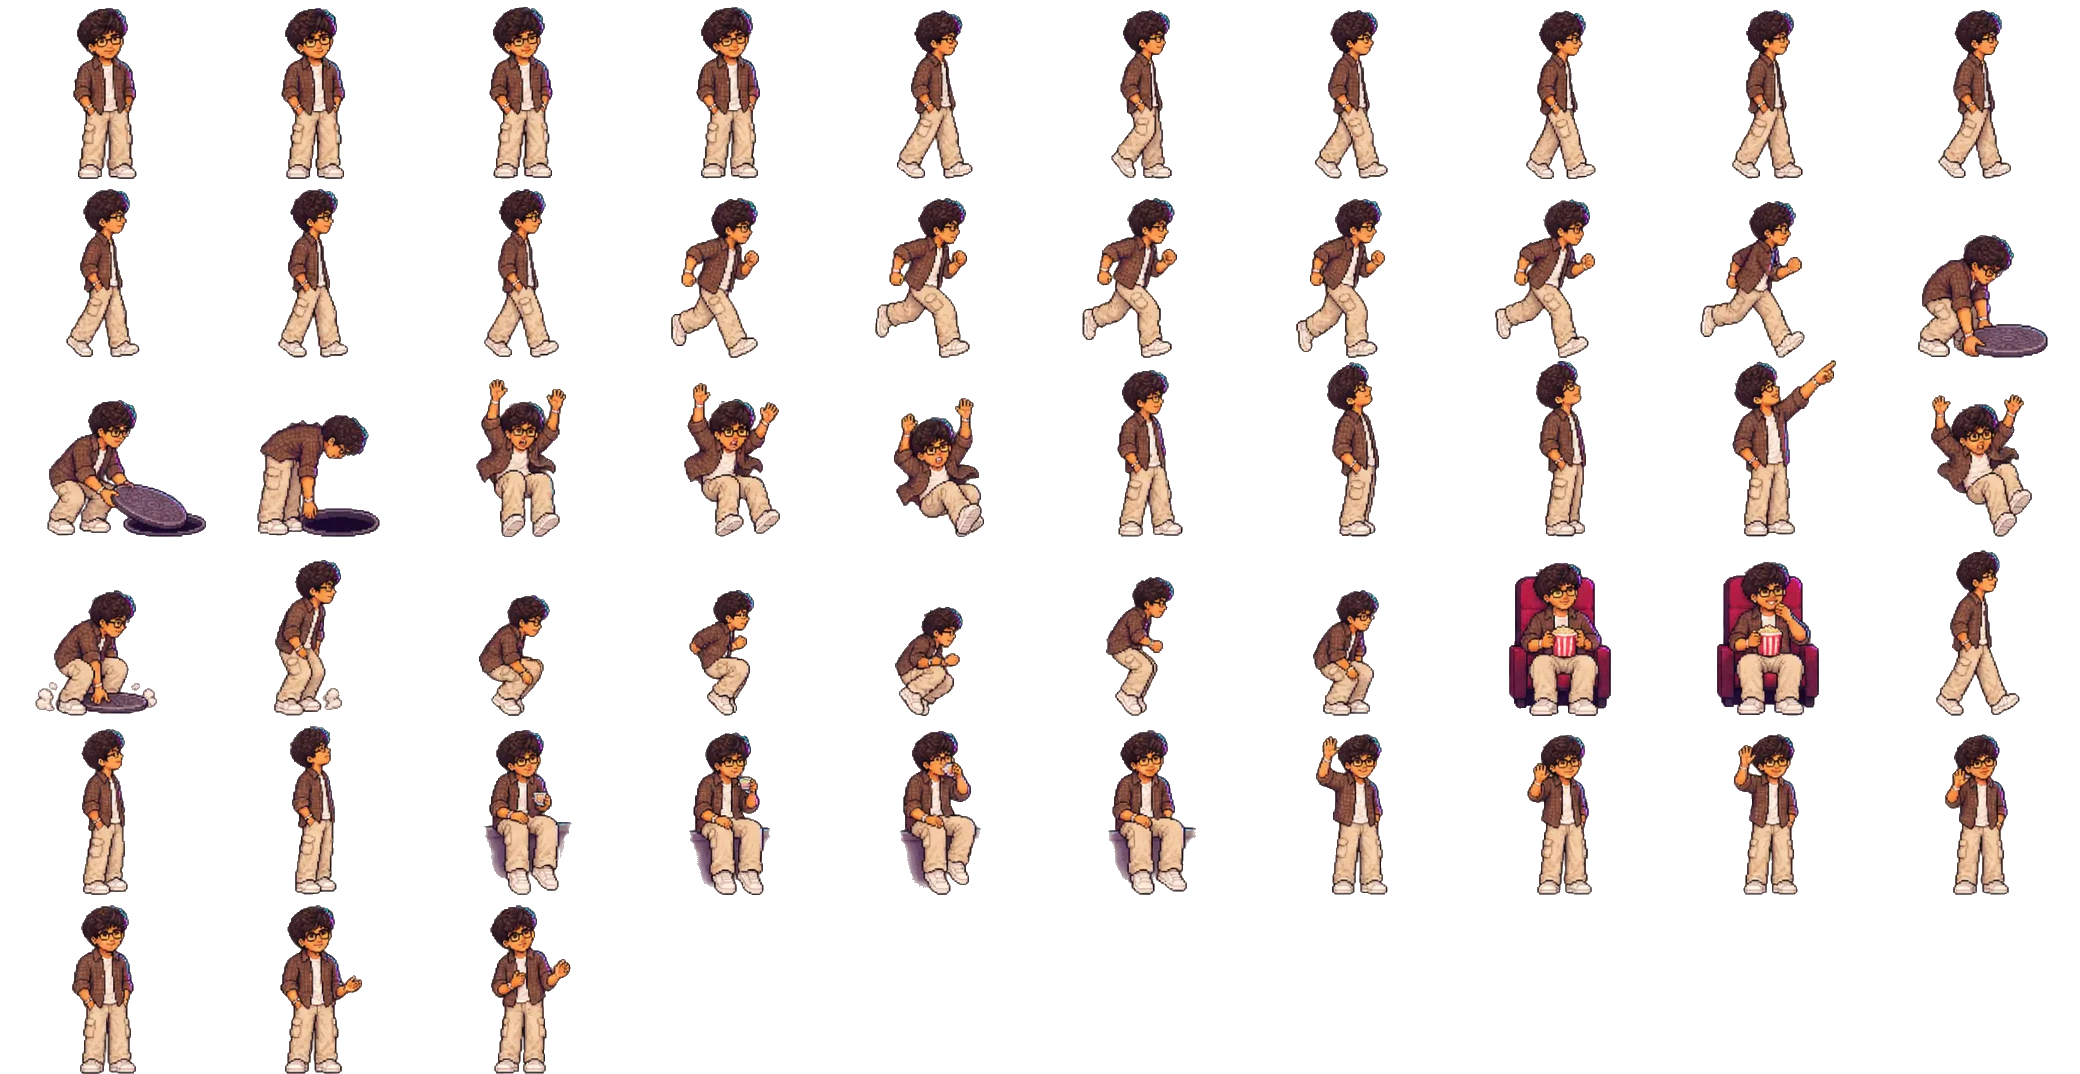
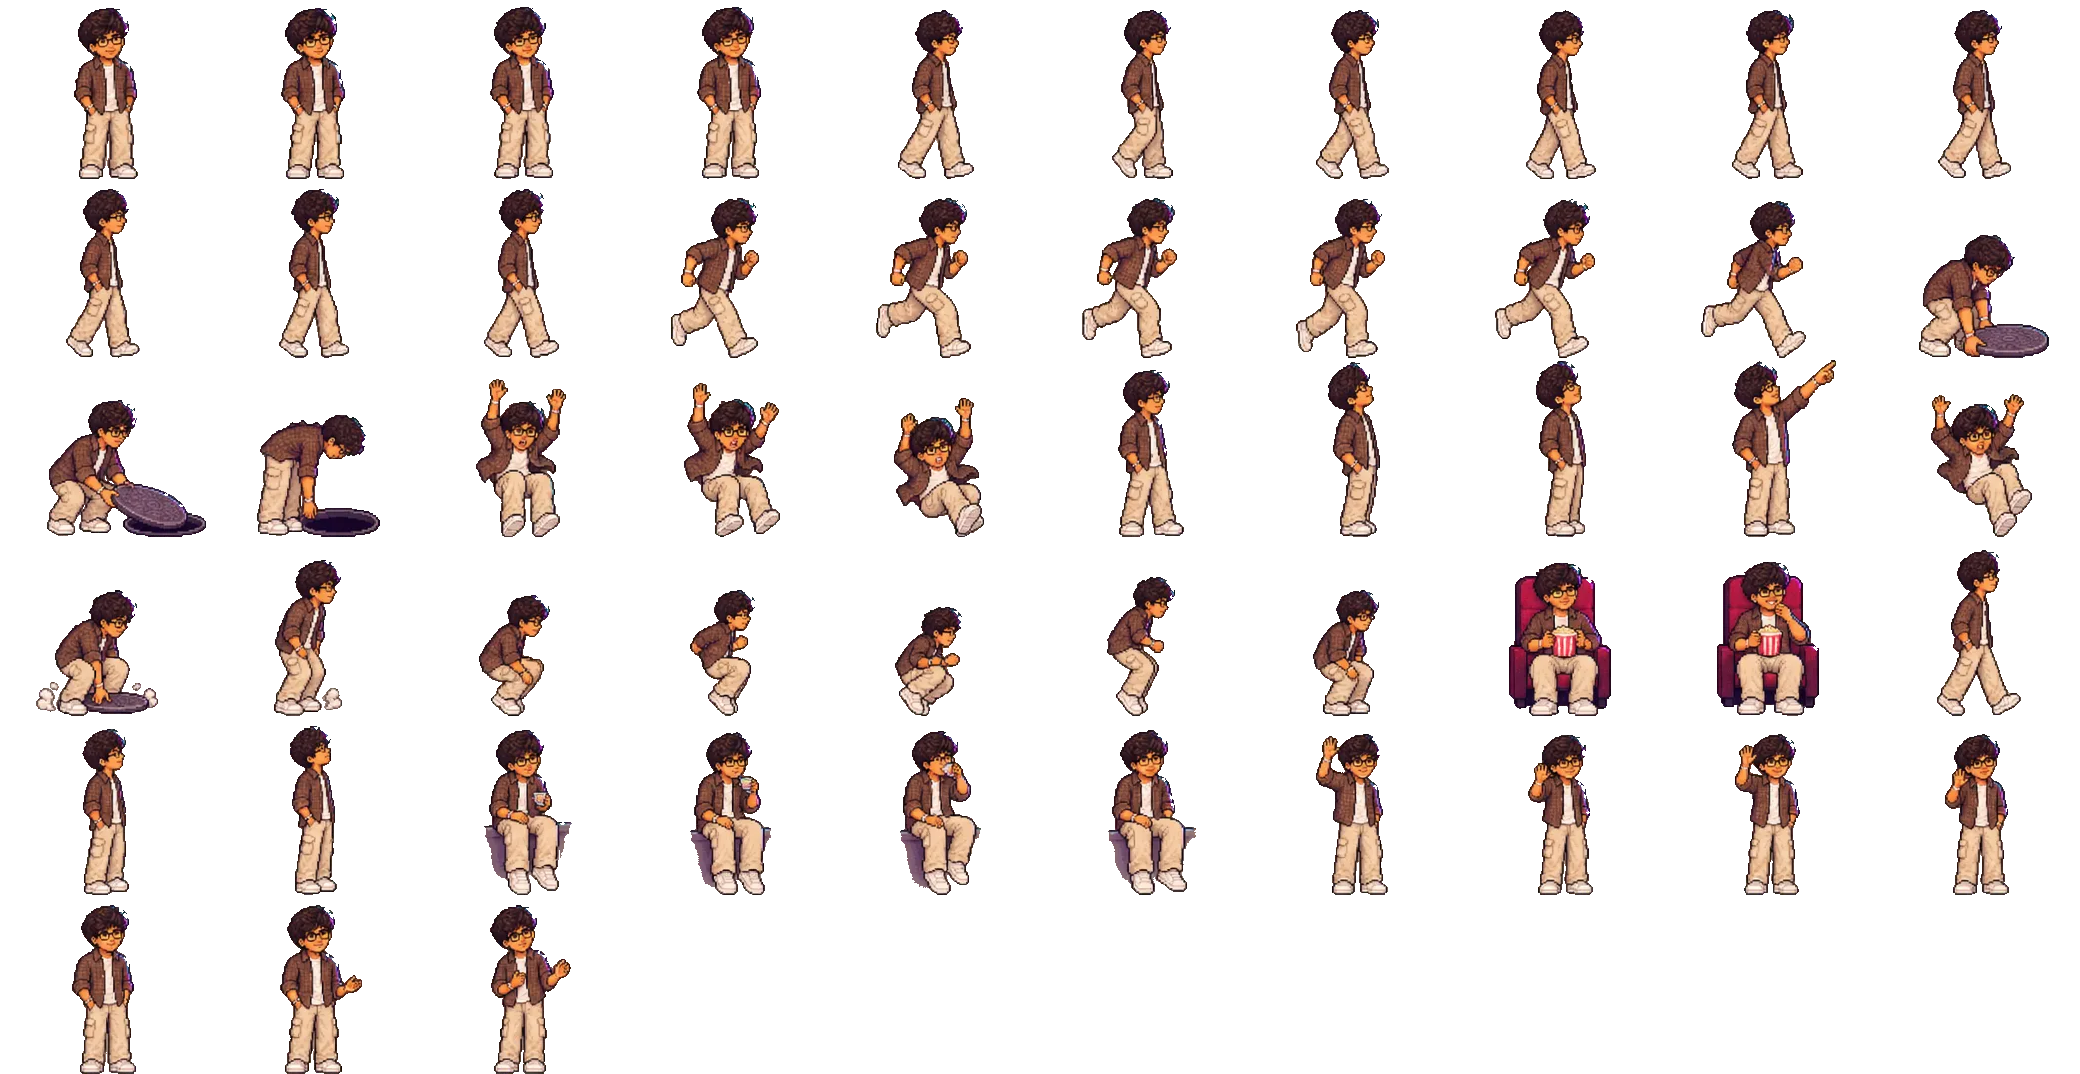
Clearer walk/run cycles and sharp character rendering
The sheet's walk and run frames are all mid-stride, so cycling them
barely read as motion. Cycles now alternate stride frames with a
legs-together passing frame, add a step bob, and play at a fixed
8/12 fps instead of being tied to scroll distance; running kicks in
with hysteresis on fast scrolls.

The sprite now renders at a whole number of device pixels per art
pixel with no smoothing, and the packer hardens alpha and strips the
magenta/cyan halo from the source art.

diff --git a/js/main.js b/js/main.js
@@ -81,7 +81,10 @@
     const P = vw < 700 ? 3 : 4;
     Object.assign(L, { vw, vh, P });
     L.gy = snap(vh * 0.8);
-    L.cs = Math.min(1.1, Math.max(0.55, (vh * 0.2) / 170)); // character scale (sheet px -> css px)
+    // character scale: a whole number of device pixels per sheet pixel keeps him sharp
+    const dpr = window.devicePixelRatio || 1;
+    L.ck = Math.max(1, Math.round(((vh * 0.2) / 170) * dpr)); // device px per sheet px
+    L.cs = L.ck / dpr;                                         // css px per sheet px
 
     // 1. street
     const street = { x: 0, y: 0, w: snap(vw + Math.max(vw * 0.8, 700)), h: vh };
@@ -173,7 +176,7 @@
     });
     paint("rooftop", {});
 
-    sprite.width = Sprite.W; sprite.height = Sprite.H;
+    sprite.width = Sprite.W * L.ck; sprite.height = Sprite.H * L.ck;
     charEl.style.setProperty("--w", Math.round(Sprite.W * L.cs) + "px");
     charEl.style.setProperty("--h", Math.round(Sprite.H * L.cs) + "px");
     lastKey = "";
@@ -244,8 +247,8 @@
   }
 
   /* ================= RENDER LOOP ================= */
-  let target = 0, cur = 0, lastX = null, walkDist = 0, facing = 1, lastMove = 0, lastLoc = "", hoverLook = false;
-  let lastKey = "";
+  let target = 0, cur = 0, lastX = null, facing = 1, lastMove = 0, lastLoc = "", hoverLook = false;
+  let lastKey = "", lastNow = 0, speed = 0, running = false, stepPhase = 0;
 
   function frame(now) {
     requestAnimationFrame(frame);
@@ -256,12 +259,15 @@
 
     const { s, t, p, cam } = evalPath(cur);
 
-    // movement bookkeeping
-    if (lastX !== null) {
-      const dx = p.x - lastX;
-      if (Math.abs(dx) > 0.05) { walkDist += Math.abs(dx); facing = dx >= 0 ? 1 : -1; lastMove = now; }
-    }
+    // movement bookkeeping: speed in px/ms, smoothed so wheel ticks don't flicker the pose
+    const dt = Math.min(64, Math.max(1, now - (lastNow || now - 16)));
+    lastNow = now;
+    const dx = lastX === null ? 0 : p.x - lastX;
+    if (Math.abs(dx) > 0.05) { facing = dx >= 0 ? 1 : -1; lastMove = now; }
     lastX = p.x;
+    speed += (Math.abs(dx) / dt - speed) * 0.15;
+    if (!running && speed > 1.4) running = true;       // hysteresis: harder to start running
+    else if (running && speed < 0.7) running = false;  // than to keep running
 
     // pose -> animation + frame number
     const moving = now - lastMove < 160;
@@ -271,9 +277,10 @@
     switch (s.pose) {
       case "walk":
         if (moving) {
-          const run = Math.abs(diff) > 60; // fast scrolling breaks into a run
-          anim = run ? "run" : "walk";
-          n = Math.floor(walkDist / (L.cs * (run ? 26 : 16)));
+          // steady game cadence (8 fps walk, 12 fps run), like the style guide's steps() timing
+          anim = running ? "run" : "walk";
+          stepPhase += (dt / 1000) * (running ? 12 : 8);
+          n = Math.floor(stepPhase);
         } else if (hoverLook && s.loc === "subway") anim = "point";
         else if (s.loc === "exhibition") { anim = tick(2400) % 2 ? "gaze" : "look"; n = tick(900); }
         else if (cur < 40) { const w = tick(170) % 12; anim = w < 4 ? "wave" : "idle"; n = w < 4 ? w : tick(260); }
@@ -302,12 +309,14 @@
       if (src) {
         lastKey = key;
         const c = sprite.getContext("2d");
-        c.clearRect(0, 0, Sprite.W, Sprite.H);
-        c.drawImage(src, 0, 0);
+        c.imageSmoothingEnabled = false;
+        c.clearRect(0, 0, sprite.width, sprite.height);
+        c.drawImage(src, 0, 0, sprite.width, sprite.height);
       }
     }
     const w = Sprite.W * L.cs, h = Sprite.H * L.cs;
-    charEl.style.transform = `translate3d(${Math.round(p.x - w / 2)}px, ${Math.round(p.y - h)}px, 0)`;
+    const bob = Sprite.bob(anim, n) * L.cs;
+    charEl.style.transform = `translate3d(${Math.round(p.x - w / 2)}px, ${Math.round(p.y - h + bob)}px, 0)`;
     charEl.style.setProperty("--face", flips ? facing : 1);
 
     // dropping into the manhole: hide the part of him that's below the street surface

diff --git a/js/sprite.js b/js/sprite.js
@@ -9,8 +9,10 @@
 
   const ANIMS = {
     idle: [0, 1, 2, 3],
-    walk: [4, 5, 6, 7, 8, 9, 10, 11, 12],
-    run: [13, 14, 15, 16, 17, 18],
+    // The sheet's walk/run frames are all mid-stride, so the cycles alternate
+    // a stride frame with a legs-together "passing" frame (40 = side stand).
+    walk: [4, 40, 12, 40],
+    run: [18, 16, 14, 13],
     crouch: [19, 20, 21],        // grab cover, lift it, look into the hole
     fall: [22, 23, 24, 29],
     land: [30, 31, 25],          // squash with dust, rise, stand
@@ -24,6 +26,9 @@
     wave: [46, 47, 48, 49],
     talk: [50, 51, 52],
   };
+
+  // vertical bob per cycle frame, in sheet px (negative = up): passing/flight frames rise
+  const BOB = { walk: [0, -3, 0, -3], run: [1, -7, 1, -7] };
 
   // sheet-pixel measurements used to line the scene up with the art
   const HOLE = { dx: 35, w: 64, h: 16 }; // manhole centre offset from the anchor, in the crouch frames
@@ -50,19 +55,17 @@
     ctx.drawImage(img, (idx % COLS) * CW, Math.floor(idx / COLS) * CH, CW, CH, 0, 0, CW, CH);
 
     if (rim) {
-      // rim light: tint opaque pixels that sit within 3px of the left (back) edge
+      // rim light: tint the single outermost pixel on the left (back) edge
       const d = ctx.getImageData(0, 0, CW, CH);
       const px = d.data, r = hex(rim), A = (x, y) => px[(y * CW + x) * 4 + 3] > 100;
       for (let y = 0; y < CH; y++) {
         for (let x = 0; x < CW; x++) {
           if (!A(x, y)) continue;
-          let edge = false;
-          for (let k = 1; k <= 3 && !edge; k++) if (x - k < 0 || !A(x - k, y)) edge = true;
-          if (!edge) continue;
+          if (x > 0 && A(x - 1, y)) continue;
           const i = (y * CW + x) * 4;
-          px[i] = (px[i] * 0.45 + r[0] * 0.55) | 0;
-          px[i + 1] = (px[i + 1] * 0.45 + r[1] * 0.55) | 0;
-          px[i + 2] = (px[i + 2] * 0.45 + r[2] * 0.55) | 0;
+          px[i] = (px[i] * 0.6 + r[0] * 0.4) | 0;
+          px[i + 1] = (px[i + 1] * 0.6 + r[1] * 0.4) | 0;
+          px[i + 2] = (px[i + 2] * 0.6 + r[2] * 0.4) | 0;
         }
       }
       ctx.putImageData(d, 0, 0);
@@ -73,6 +76,7 @@
 
   window.Sprite = {
     W: CW, H: CH, ANIMS, HOLE, frame,
+    bob: (anim, n) => { const b = BOB[anim]; return b ? b[((n % b.length) + b.length) % b.length] : 0; },
     count: (anim) => (ANIMS[anim] || ANIMS.idle).length,
     whenReady: (f) => (ready ? f() : onReady.push(f)),
   };

diff --git a/styles.css b/styles.css
@@ -188,6 +188,7 @@ h1, h2, h3 { font-family: var(--font-display); font-weight: 400; margin: 0; }
 }
 .char-sprite {
   position: absolute; inset: 0; width: 100%; height: 100%;
+  image-rendering: pixelated; image-rendering: crisp-edges;
   transform: scaleX(var(--face, 1));
 }
 .char-shadow {

diff --git a/tools/pack_sprite.py b/tools/pack_sprite.py
@@ -10,6 +10,23 @@ import sys, numpy as np, json
 from PIL import Image
 from scipy import ndimage as nd
 im = np.array(Image.open(sys.argv[1]).convert('RGBA'))
+# --- clean-up for crisp edges -------------------------------------------
+# 1. hard alpha: pixel art has no semi-transparent edge pixels
+# 2. defringe: drop the saturated magenta/cyan halo left around the outline
+def defringe(im):
+    a = im[..., 3] > 100
+    rgb = im[..., :3].astype(int)
+    mx, mn = rgb.max(-1), rgb.min(-1)
+    sat = (mx - mn) / np.maximum(mx, 1)
+    r, g, b = rgb[..., 0], rgb[..., 1], rgb[..., 2]
+    # the character's palette is warm (red >= blue); cool pixels on the outline are halo
+    cool = (b > r + 30) | ((g > r + 30) & (b > r + 10)) | ((r > g + 50) & (b > g + 50) & (sat > 0.35))
+    for _ in range(4):  # halos can be a few pixels thick
+        near_edge = nd.binary_dilation(~a, iterations=1) & a
+        a = a & ~(near_edge & cool)
+    im[..., 3] = np.where(a, 255, 0)
+    return im
+im = defringe(im)
 fg = im[..., 3] > 100
 L, n = nd.label(fg, structure=np.ones((3,3)))
 sizes = nd.sum(fg, L, range(1, n+1)); objs = nd.find_objects(L)
